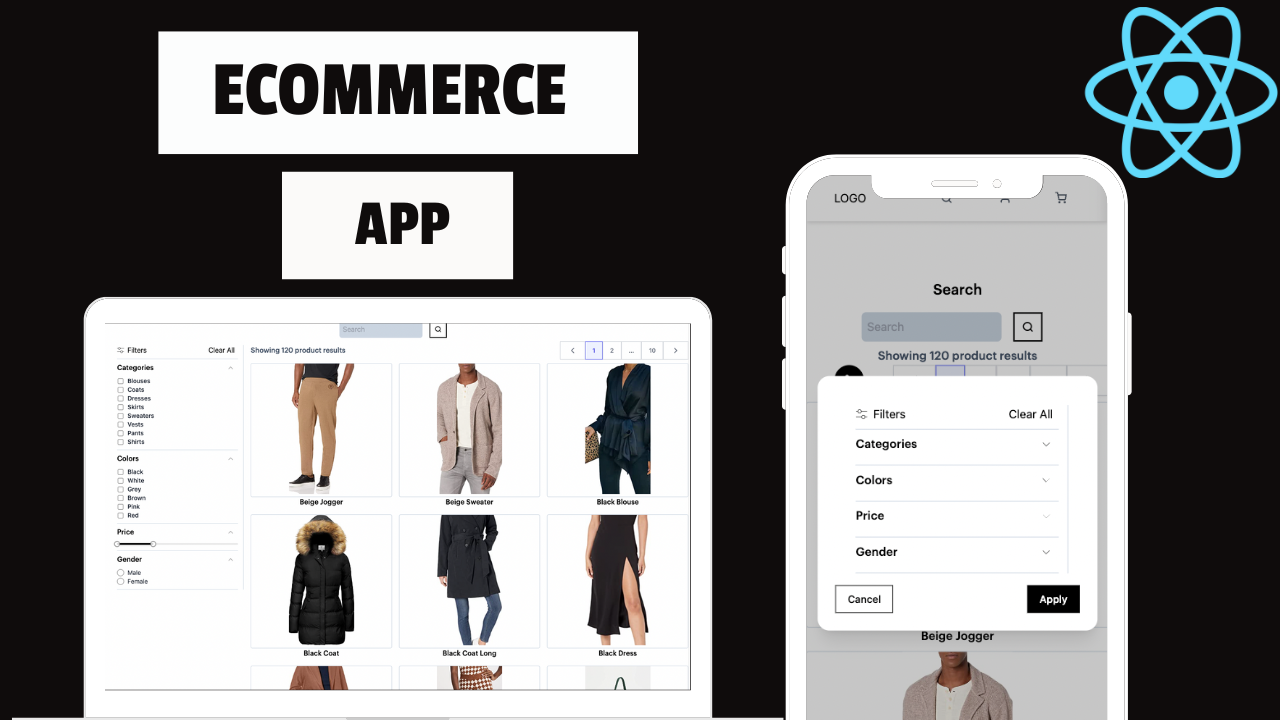
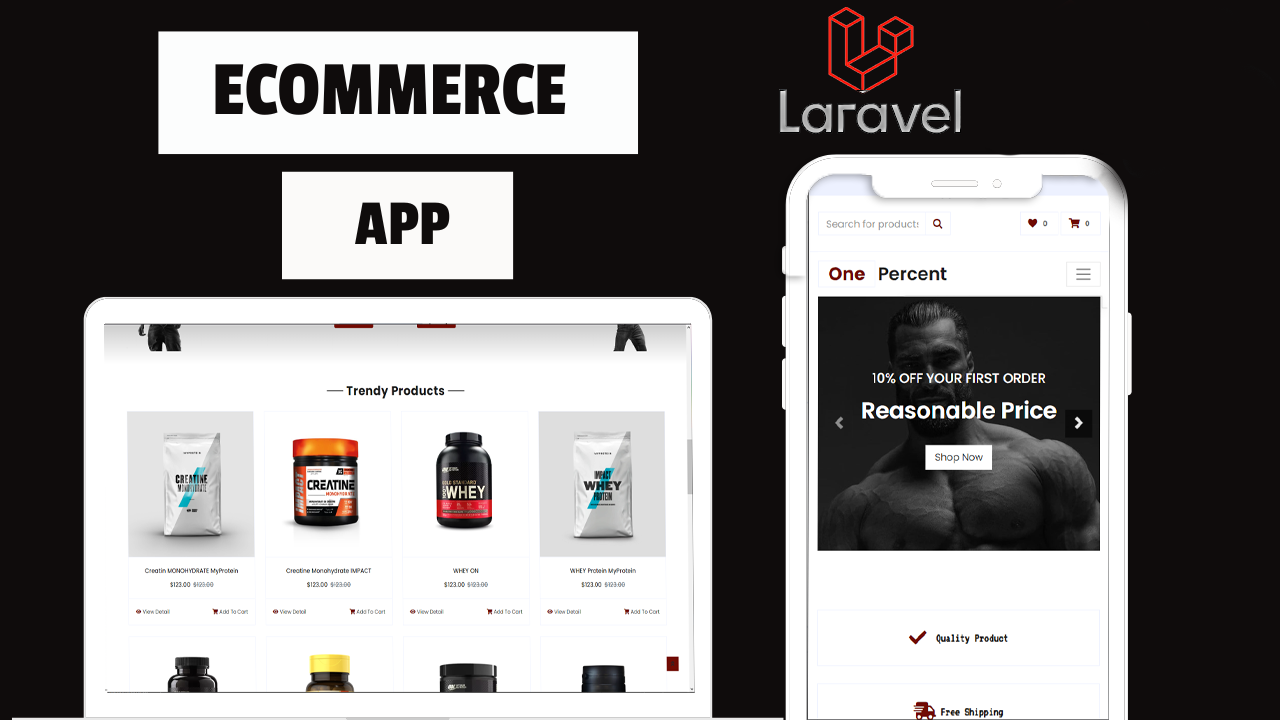
projects section

Changed region(s): [[0.625, 0.0, 1.0, 1.0], [0.0625, 0.4278, 0.5625, 0.9778], [0.5938, 0.0, 0.75, 0.1833]]

diff --git a/src/app/components/ProjectsSection.jsx b/src/app/components/ProjectsSection.jsx
@@ -7,58 +7,50 @@ import { motion, useInView } from "framer-motion";
 const projectsData = [
   {
     id: 1,
-    title: "React Portfolio Website",
-    description: "Project 1 description",
+    title: "Metaverse Landing Page",
+    description: "FrontEnd website in order to master modern UI of nextjs 13, aesthetics of tailwindCSS and framer motion's animaitons",
     image: "/images/projects/1.jpg",
-    tag: ["All", "Web"],
-    gitUrl: "/",
-    previewUrl: "/",
+    tag: ["All", "FrontEnd"],
+    gitUrl: "https://github.com/LaithFerjeoui/Metaverse.git",
+    previewUrl: "https://metaverse-landing.vercel.app",
   },
   {
     id: 2,
-    title: "Potography Portfolio Website",
-    description: "Project 2 description",
+    title: "BankERA",
+    description: "FrontEnd UI/UX with React JS and Tailwind",
     image: "/images/projects/2.png",
-    tag: ["All", "Web"],
-    gitUrl: "/",
-    previewUrl: "/",
+    tag: ["All", "FrontEnd"],
+    gitUrl: "https://github.com/LaithFerjeoui/Bankera.git",
+    previewUrl: "https://bankera.netlify.app",
   },
   {
     id: 3,
-    title: "E-commerce Application",
-    description: "Project 3 description",
+    title: "E-commerce Application 'One Percent'",
+    description: "One Percent is a Full Stack e-commerce website that sells gym suppliments made with Laravel and Filament",
     image: "/images/projects/3.png",
-    tag: ["All", "Web"],
-    gitUrl: "/",
-    previewUrl: "/",
+    tag: ["All", "Full Stack"],
+    gitUrl: "https://github.com/LaithFerjeoui/One-Percent-E-commerce-laravel.git",
+    previewUrl: "one-percent-suppliments.netlify.app",
   },
   {
     id: 4,
-    title: "Food Ordering Application",
-    description: "Project 4 description",
-    image: "/images/projects/4.png",
-    tag: ["All", "Mobile"],
-    gitUrl: "/",
+    title: "E-Poster maker for IPGETS",
+    description: "Javascript Poster Editor online ",
+    image: "/images/projects/4.jpg",
+    tag: ["All", "FrontEnd"],
+    gitUrl: "https://github.com/LaithFerjeoui/online-image-editor-ipgets.git",
     previewUrl: "/",
   },
   {
     id: 5,
-    title: "React Firebase Template",
-    description: "Authentication and CRUD operations",
+    title: "Skybox Gym ",
+    description: "FrontEnd gym website for Skybox Gym",
     image: "/images/projects/5.png",
     tag: ["All", "Web"],
     gitUrl: "/",
-    previewUrl: "/",
+    previewUrl: "https://skybox-gym-kairouan.netlify.app",
   },
-  {
-    id: 6,
-    title: "Full-stack Roadmap",
-    description: "Project 5 description",
-    image: "/images/projects/6.png",
-    tag: ["All", "Web"],
-    gitUrl: "/",
-    previewUrl: "/",
-  },
+
 ];
 
 const ProjectsSection = () => {
@@ -92,13 +84,13 @@ const ProjectsSection = () => {
         />
         <ProjectTag
           onClick={handleTagChange}
-          name="Web"
-          isSelected={tag === "Web"}
+          name="FrontEnd"
+          isSelected={tag === "FrontEnd"}
         />
         <ProjectTag
           onClick={handleTagChange}
-          name="Mobile"
-          isSelected={tag === "Mobile"}
+          name="Full Stack"
+          isSelected={tag === "Full Stack"}
         />
       </div>
       <ul ref={ref} className="grid md:grid-cols-3 gap-8 md:gap-12">

diff --git a/src/app/components/AboutSection.jsx b/src/app/components/AboutSection.jsx
@@ -46,7 +46,7 @@ const fadeInAnimationVariants={
   opacity: 1,
   y: 0,
   transition: {
-    delay: 0.4,
+    delay: 0.6,
   },
   }),
 };
@@ -130,8 +130,7 @@ const AboutSection = () => {
       <div className="md:grid grid-cols-2 lg:grid-cols-2 md:grid-cols-1 gap-8 items-center py-8 px-4 xl:gap-16 sm:py-16 xl:px-16 relative z-10 fix">
         <motion.div
          initial="hidden"
-         animate="show"
-         viewport={{ once: false}}
+         whileInView="show"
         variants={fadeIn('right', 'tween', 0.2, 1)}
         className="box">
           <div className="content">
@@ -142,7 +141,8 @@ const AboutSection = () => {
     <div className="mt-4 md:mt-0 text-left flex flex-col h-full">
       <motion.div
         initial="hidden"
-        animate="show"
+       viewport={{once:true,}}
+        whileInView="show"
         variants={fadeIn('left', 'tween', 0.2, 1)}>
           
           <h2 className="text-4xl font-bold text-white mb-4">About Me</h2>
@@ -177,7 +177,7 @@ const AboutSection = () => {
           <motion.div variants={fadeInAnimationVariants}
           initial="initial"
           whileInView="animate" 
-          viewport={{once:true,}}
+          
            className="mt-8">
             {TAB_DATA.find((t) => t.id === tab).content}
           </motion.div>

diff --git a/src/app/components/HeroSection.jsx b/src/app/components/HeroSection.jsx
@@ -21,7 +21,7 @@ const HeroSection = () => {
           <div className="gradient-03 relative z-0"/>
 
           <h1 className="text-white mb-4 text-4xl sm:text-5xl lg:text-8xl lg:leading-normal font-extrabold relative z-10">
-            <span className="text-transparent bg-clip-text bg-[conic-gradient(at_left,_var(--tw-gradient-stops))] from-indigo-200 via-slate-600 to-indigo-200">
+            <span className="text-gradient text-transparent bg-clip-text bg-[conic-gradient(at_left,_var(--tw-gradient-stops))] from-indigo-200 via-slate-600 to-indigo-200">
               Hello, I&apos;m{" "}
             </span>
             <br></br>
@@ -40,8 +40,7 @@ const HeroSection = () => {
             />
           </h1>
           <p className="text-[#ADB7BE] text-base sm:text-lg mb-6 lg:text-xl relative z-10">
-            Lorem ipsum dolor sit amet consectetur adipisicing elit. Quisquam,
-            voluptatum.
+            Combining aesthetics with functionality to bring your idea to life.
           </p>
           <div>
             <Link

diff --git a/src/app/components/Footer.jsx b/src/app/components/Footer.jsx
@@ -2,12 +2,15 @@ import React from "react";
 
 const Footer = () => {
   return (
-    <footer className="footer border z-10 border-t-[#33353F] border-l-transparent border-r-transparent text-white">
+    <footer className="footer border z-10 border-t-[#33353F] border-l-transparent border-r-transparent text-white ">
       <div className="container p-12 flex justify-between">
        
           <img src="./images/logo.png" alt="logo" className="md:w-[6%] lg:w-[3%] w-[10%] h-[10%]"/>
-
-        <p className="text-slate-600">All rights reserved.</p>
+       
+          <p className="text-slate-600 mt-3">Whatsup: <span className="text-[#acb6be]">+216-94-418-796</span> </p>
+      
+        
+        
       </div>
     </footer>
   );

diff --git a/src/app/components/Navbar.jsx b/src/app/components/Navbar.jsx
@@ -50,7 +50,7 @@ const Navbar = () => {
           )}
         </div>
         <div className="menu hidden md:block md:w-auto" id="navbar">
-          <ul className="flex p-4 md:p-0 md:flex-row md:space-x-8 mt-0">
+          <ul className="flex p-4  md:flex-row md:space-x-8 mt-0  md:w-auto items-center justify-between w-full h-auto border border-[#26155b61] bg-[#0300145e] mr-[15px] px-[20px] py-[10px] rounded-full text-gray-200">
             {navLinks.map((link, index) => (
               <li key={index}>
                 <NavLink href={link.path} title={link.title} />

diff --git a/src/app/components/EmailSection.jsx b/src/app/components/EmailSection.jsx
@@ -66,7 +66,7 @@ const EmailSection = () => {
     initial="hidden"
     whileInView="show"
       id="contact"
-      className="grid md:grid-cols-2 my-12 md:my-12 py-24 gap-4 relative z-10"
+      className="grid md:grid-cols-2 my-12 md:my-12 py-24 gap-4 relative z-10 "
     >
     <div className="gradient-02"/>
       <div className="z-10">

diff --git a/styles/globals.css b/styles/globals.css
@@ -114,6 +114,15 @@ border-radius: 50%;
 overflow: hidden;
 justify-self: center;
 }
+
+/* Media query for screens with a maximum width of 640px (sm screens) */
+@media screen and (max-width: 640px) {
+  .box {
+    width: 375px;
+    height: 375px;
+    margin:auto;
+  }
+}
 .box::before
 {
 content: '';
